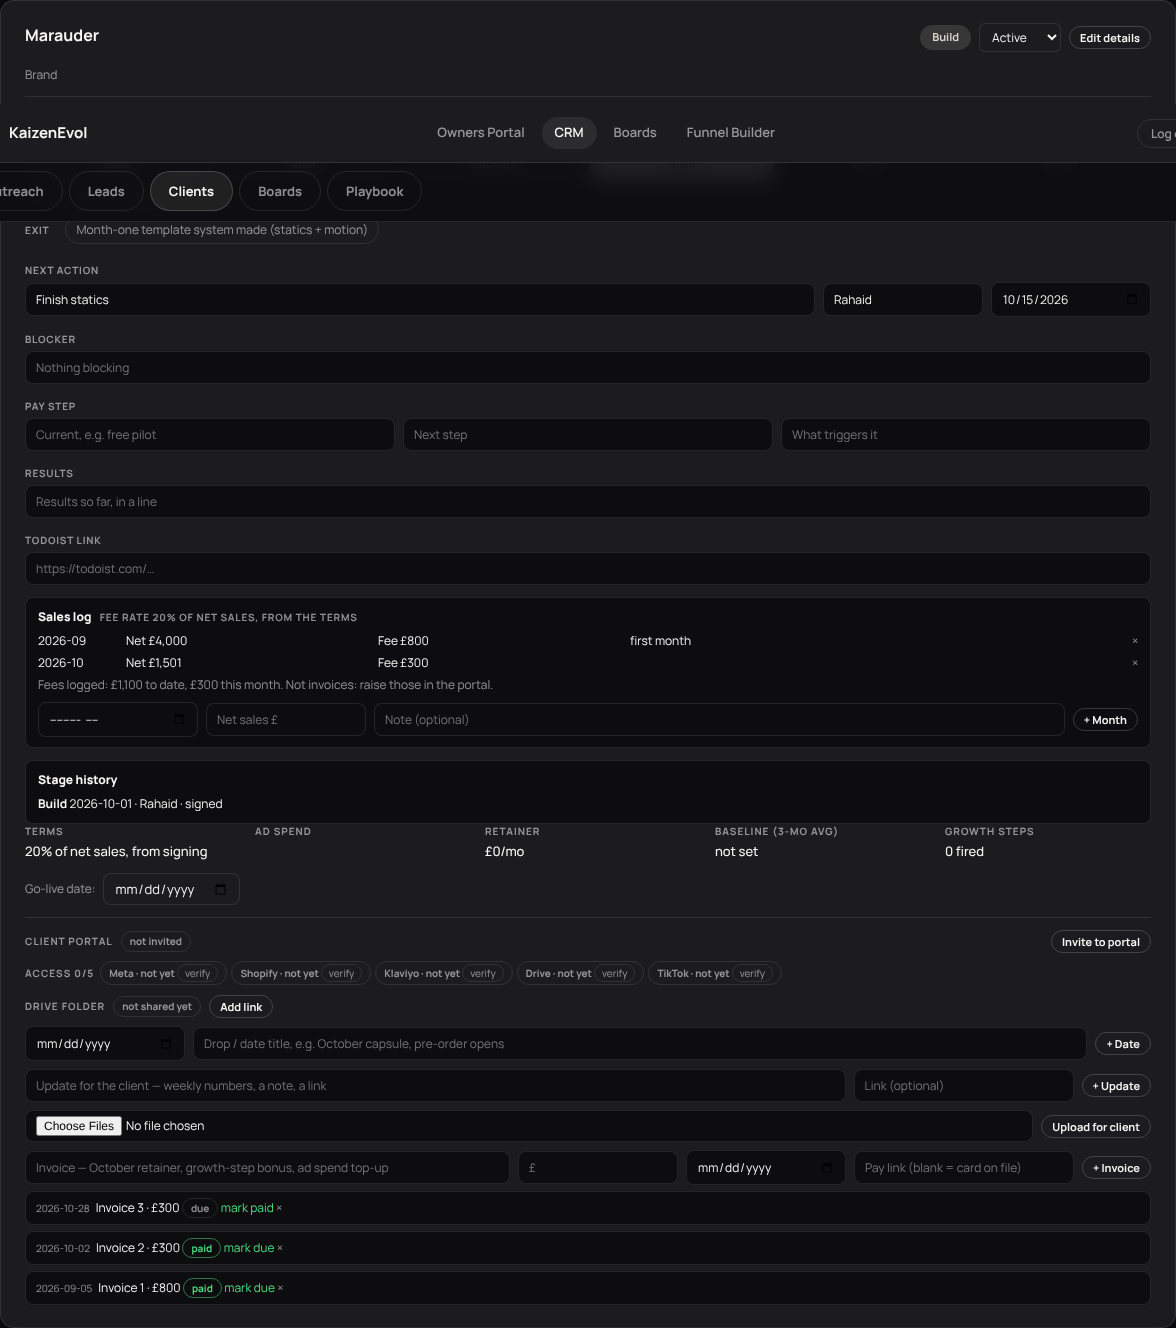
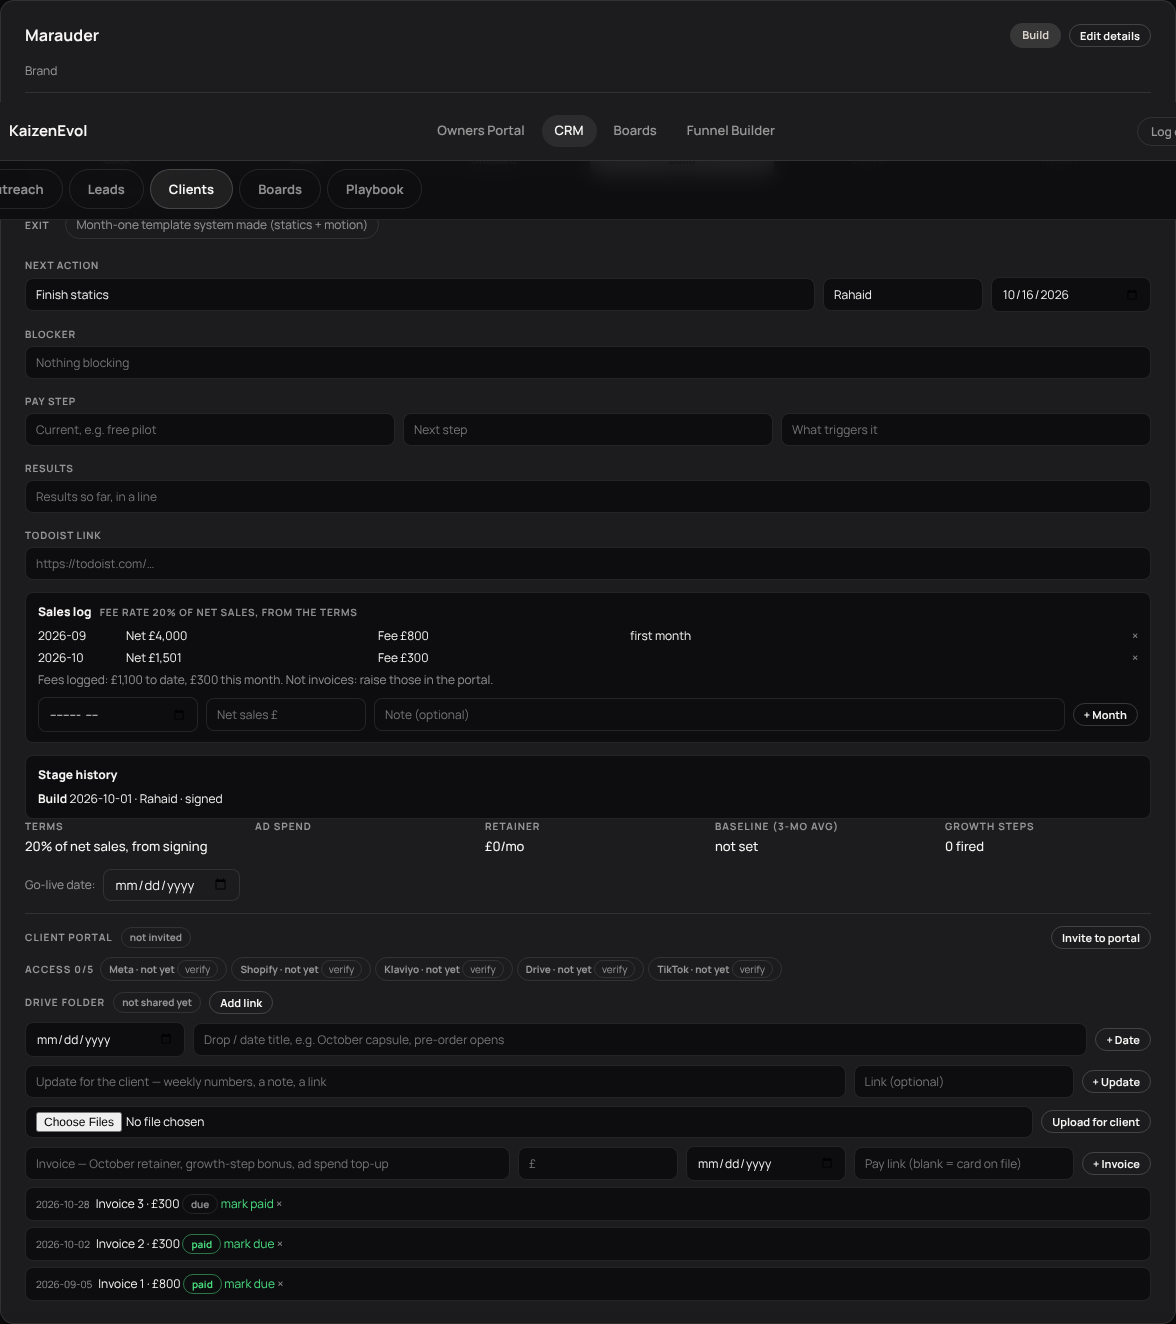
CRM overhaul: Law's review fixes
- Money table at phone width stacks per client, every figure labelled, instead
  of clipping past "Owed this month". Checked with scrollWidth <= clientWidth
  at 375 and 390.
- The old Active/Inactive select is hidden on any card with a stage; it stays
  only on cards still on the "(old status)" fallback. status is not deleted.

Claude-Session: https://claude.ai/code/session_01P1WFRqC7uXTfgJsteQu7nA

diff --git a/crm.html b/crm.html
@@ -496,7 +496,7 @@
     .pb-t{font-size:15px;font-weight:800;}
     .pb-b{font-size:13px;color:var(--muted);margin-top:6px;white-space:pre-wrap;overflow-wrap:anywhere;}
     #mrText,#pbB{width:100%;box-sizing:border-box;min-height:320px;font-family:var(--mono,monospace);font-size:12px;resize:vertical;}
-    @media(max-width:640px){.ov-row{grid-template-columns:1fr auto;}.ov-row .ov-c,.ov-row .ov-c:nth-child(5){grid-column:1/-1;}.sp-step{font-size:10px;padding:6px 0;}.sp-sr{grid-template-columns:70px 1fr 1fr auto;}.sp-sr .sp-note{grid-column:1/-1;grid-row:2;}.sp-f .pt-row .pt-inp{flex:1 1 100%!important;}.sp-f .pt-inp{font-size:16px;}}
+    @media(max-width:640px){.ov-money{overflow-x:visible;}.ov-m{grid-template-columns:1fr 1fr;min-width:0;row-gap:6px;padding:8px 0;}.ov-m b{grid-column:1/-1;}.ov-m span{text-align:left;}.ov-m span::before{content:attr(data-l);display:block;font-size:10px;color:var(--muted);}.ov-m span:empty{display:none;}.ov-mh{display:none;}.ov-row{grid-template-columns:1fr auto;}.ov-row .ov-c,.ov-row .ov-c:nth-child(5){grid-column:1/-1;}.sp-step{font-size:10px;padding:6px 0;}.sp-sr{grid-template-columns:70px 1fr 1fr auto;}.sp-sr .sp-note{grid-column:1/-1;grid-row:2;}.sp-f .pt-row .pt-inp{flex:1 1 100%!important;}.sp-f .pt-inp{font-size:16px;}}
     .re-engage-btn{padding:3px 10px;font-size:11px;font-weight:700;border-radius:var(--radius-pill);border:1.5px solid rgba(245,158,11,.35);color:#fbbf24;background:rgba(245,158,11,.07);cursor:pointer;font-family:var(--sans);transition:all .15s;}
     .re-engage-btn:hover{background:rgba(245,158,11,.18);border-color:rgba(245,158,11,.6);}
     .wq-badge{font-size:10px;font-weight:700;padding:2px 8px;border-radius:var(--radius-pill);}
@@ -1528,7 +1528,7 @@ function toggleClientTask(clientId,taskId){const d=load();if(!d.clientTasks)d.cl
 function stClass(s){return{active:'st-retainer',inactive:'st-inactive'}[s]||'st-inactive';}
 function stLabel(s){return{active:'✓ Active',inactive:'○ Inactive'}[s]||s;}
 /* One client's full card: fields, go-live date, portal block. Unchanged markup, now shown inside the open row. */
-function clientCardHTML(c,data){if(_clEdit&&_clEdit.id===c.id)return clientEditHTML(c);const day=c.status==='active'&&c.liveDate?daysSince(c.liveDate):null;return`<div class="card" id="card_${esc(c.id)}" style="margin-bottom:14px;scroll-margin-top:120px"><div class="client-head"><div class="client-name">${esc(c.name)}</div><div class="client-controls"><span class="pipe-stage-label psl-${esc(clientStatusView(c).key)}">${esc(clientStatusView(c).label)}</span><select class="mini-select" onchange="setClientStatus('${c.id}',this.value)"><option value="active" ${c.status==='active'?'selected':''}>Active</option><option value="inactive" ${c.status==='inactive'?'selected':''}>Inactive</option></select><button type="button" class="ob-btn" onclick="clEditStart('${esc(c.id)}')">Edit details</button></div></div>${clContactLine(c)}${stageBlock(c)}${isLocalClient(c)?`<div class="client-fields"><div class="cf"><div class="cf-l">Terms</div><div class="cf-v">${esc(c.terms)}</div></div><div class="cf"><div class="cf-l">Monthly</div><div class="cf-v">£${Number(currentRetainer(c,data)).toLocaleString()}/mo${c.founding?' · founding':''}</div></div><div class="cf"><div class="cf-l">Desk</div><div class="cf-v">${c.deskTenant?'Connected · '+esc(c.deskTenant):'Not connected'} <button class="comm-status cs-pending" onclick="deskConnect('${c.id}')">${c.deskTenant?'change':'connect'}</button>`:`<div class="client-fields"><div class="cf"><div class="cf-l">Terms</div><div class="cf-v">${esc(c.terms)}</div></div><div class="cf"><div class="cf-l">Ad Spend</div><div class="cf-v">${esc(c.adSpend)}</div></div><div class="cf"><div class="cf-l">Retainer</div><div class="cf-v">£${Number(currentRetainer(c,data)).toLocaleString()}/mo${c.founding?' · founding':''}</div></div><div class="cf"><div class="cf-l">Baseline (3-mo avg)</div><div class="cf-v">${c.baselineRevenue?'£'+Number(c.baselineRevenue).toLocaleString()+'/mo':'not set'}</div></div><div class="cf"><div class="cf-l">Growth steps</div><div class="cf-v">${growthState(c,data).steps} fired`}</div></div></div>${c.status==='active'?`<div class="date-row"><span class="date-lbl">Go-live date:</span><input type="date" class="date-inp" value="${c.liveDate||''}" onchange="setLiveDate('${c.id}',this.value)" />${day?`<span class="date-lbl" style="margin-left:auto">Live ${day} day${day===1?'':'s'}</span>`:''}</div>`:''}${portalBlock(c)}</div>`;}
+function clientCardHTML(c,data){if(_clEdit&&_clEdit.id===c.id)return clientEditHTML(c);const day=c.status==='active'&&c.liveDate?daysSince(c.liveDate):null;return`<div class="card" id="card_${esc(c.id)}" style="margin-bottom:14px;scroll-margin-top:120px"><div class="client-head"><div class="client-name">${esc(c.name)}</div><div class="client-controls"><span class="pipe-stage-label psl-${esc(clientStatusView(c).key)}">${esc(clientStatusView(c).label)}</span>${stageOf(c)?'':`<select class="mini-select" onchange="setClientStatus('${c.id}',this.value)"><option value="active" ${c.status==='active'?'selected':''}>Active</option><option value="inactive" ${c.status==='inactive'?'selected':''}>Inactive</option></select>`}<button type="button" class="ob-btn" onclick="clEditStart('${esc(c.id)}')">Edit details</button></div></div>${clContactLine(c)}${stageBlock(c)}${isLocalClient(c)?`<div class="client-fields"><div class="cf"><div class="cf-l">Terms</div><div class="cf-v">${esc(c.terms)}</div></div><div class="cf"><div class="cf-l">Monthly</div><div class="cf-v">£${Number(currentRetainer(c,data)).toLocaleString()}/mo${c.founding?' · founding':''}</div></div><div class="cf"><div class="cf-l">Desk</div><div class="cf-v">${c.deskTenant?'Connected · '+esc(c.deskTenant):'Not connected'} <button class="comm-status cs-pending" onclick="deskConnect('${c.id}')">${c.deskTenant?'change':'connect'}</button>`:`<div class="client-fields"><div class="cf"><div class="cf-l">Terms</div><div class="cf-v">${esc(c.terms)}</div></div><div class="cf"><div class="cf-l">Ad Spend</div><div class="cf-v">${esc(c.adSpend)}</div></div><div class="cf"><div class="cf-l">Retainer</div><div class="cf-v">£${Number(currentRetainer(c,data)).toLocaleString()}/mo${c.founding?' · founding':''}</div></div><div class="cf"><div class="cf-l">Baseline (3-mo avg)</div><div class="cf-v">${c.baselineRevenue?'£'+Number(c.baselineRevenue).toLocaleString()+'/mo':'not set'}</div></div><div class="cf"><div class="cf-l">Growth steps</div><div class="cf-v">${growthState(c,data).steps} fired`}</div></div></div>${c.status==='active'?`<div class="date-row"><span class="date-lbl">Go-live date:</span><input type="date" class="date-inp" value="${c.liveDate||''}" onchange="setLiveDate('${c.id}',this.value)" />${day?`<span class="date-lbl" style="margin-left:auto">Live ${day} day${day===1?'':'s'}</span>`:''}</div>`:''}${portalBlock(c)}</div>`;}
 /* ── CLIENTS, compact (2026-09-29) ──
    One row per client: name, stage, next action on one line, and badges for checklist, access and
    unread portal messages. The open client (one at a time) is kept in localStorage so the re-render
@@ -1711,12 +1711,12 @@ function renderDash(data){
   const waits=order.map(k=>{const g=(groups[k]||[]).sort(sortN);return '<div class="ov-wait"><div class="sp-h">Waiting on '+esc(k)+' <span class="sp-lbl">'+g.length+'</span></div>'+(g.length?g.map(x=>'<div class="ov-w'+(naOverdue(x.n)?' late':'')+'"><b>'+esc(x.c.name)+'</b> '+esc(x.n.text)+(x.n.due?' <i>'+(naOverdue(x.n)?'overdue, ':'')+'due '+esc(x.n.due)+'</i>':'')+'</div>').join(''):'<div class="sp-none">Nothing.</div>')+'</div>';}).join('');
   const tot={paidM:0,owedM:0,paid:0,owed:0,feeM:0,fee:0};
   const money=cl.map(c=>{const m=moneyFor(c.id),f=salesFees(c);['paidM','owedM','paid','owed'].forEach(k=>tot[k]+=m[k]);tot.feeM+=f.month;tot.fee+=f.total;
-    return '<div class="ov-m"><b>'+esc(c.name)+'</b><span>'+fmtGBP(m.paidM)+'</span><span>'+fmtGBP(m.owedM)+'</span><span>'+fmtGBP(m.paid)+'</span><span>'+fmtGBP(m.owed)+'</span><span>'+(hasSalesLog(c)?(f.rate===null?'rate not set':fmtGBP(f.total)):'')+'</span></div>';}).join('');
+    return '<div class="ov-m"><b>'+esc(c.name)+'</b><span data-l="Paid this month">'+fmtGBP(m.paidM)+'</span><span data-l="Owed this month">'+fmtGBP(m.owedM)+'</span><span data-l="Paid to date">'+fmtGBP(m.paid)+'</span><span data-l="Owed to date">'+fmtGBP(m.owed)+'</span><span data-l="Sales-log fees">'+(hasSalesLog(c)?(f.rate===null?'rate not set':fmtGBP(f.total)):'')+'</span></div>';}).join('');
   host.innerHTML='<div class="ov-bar"><div class="section-label" style="margin:0">Overview</div><label class="sp-lbl">You are <select class="mini-select" onchange="crmMeSet(this.value)" aria-label="Who is using the CRM"><option value="">Not set (CRM)</option>'+SP_PEOPLE.map(p=>'<option'+(p===me?' selected':'')+'>'+p+'</option>').join('')+'</select></label><button type="button" class="btn-save" style="padding:7px 16px;font-size:12px" onclick="mondayReport()">Monday report</button></div>'
     +'<div class="ov-rows">'+(rows||'<div class="sp-none">No active clients.</div>')+'</div>'
     +'<div class="ov-waits">'+waits+'</div>'
     +'<div class="ov-money"><div class="sp-h">Money <span class="sp-lbl">invoices in the portal; sales-log fees are logged, not invoiced</span></div><div class="ov-m ov-mh"><b>Client</b><span>Paid this month</span><span>Owed this month</span><span>Paid to date</span><span>Owed to date</span><span>Sales-log fees</span></div>'+money
-    +'<div class="ov-m ov-mt"><b>Total</b><span>'+fmtGBP(tot.paidM)+'</span><span>'+fmtGBP(tot.owedM)+'</span><span>'+fmtGBP(tot.paid)+'</span><span>'+fmtGBP(tot.owed)+'</span><span>'+fmtGBP(tot.fee)+'</span></div></div>';
+    +'<div class="ov-m ov-mt"><b>Total</b><span data-l="Paid this month">'+fmtGBP(tot.paidM)+'</span><span data-l="Owed this month">'+fmtGBP(tot.owedM)+'</span><span data-l="Paid to date">'+fmtGBP(tot.paid)+'</span><span data-l="Owed to date">'+fmtGBP(tot.owed)+'</span><span data-l="Sales-log fees">'+fmtGBP(tot.fee)+'</span></div></div>';
 }
 /* ── MONDAY REPORT ── plain text from the cards, shown to copy. Nothing is sent anywhere. */
 function mondayReportText(d){
